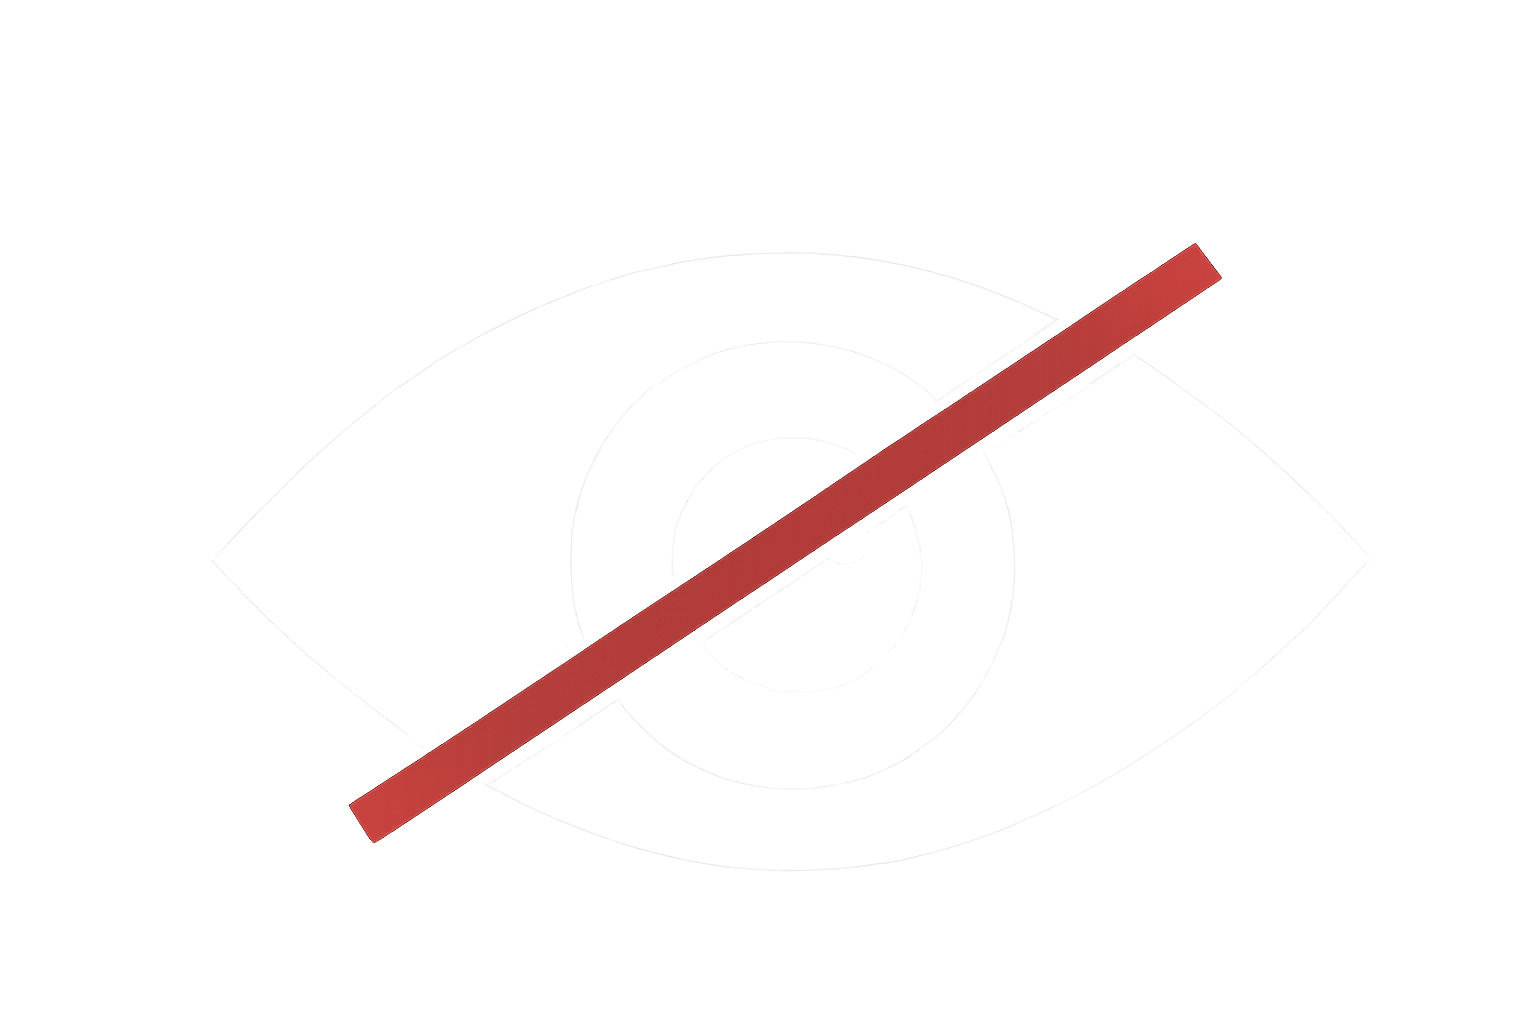
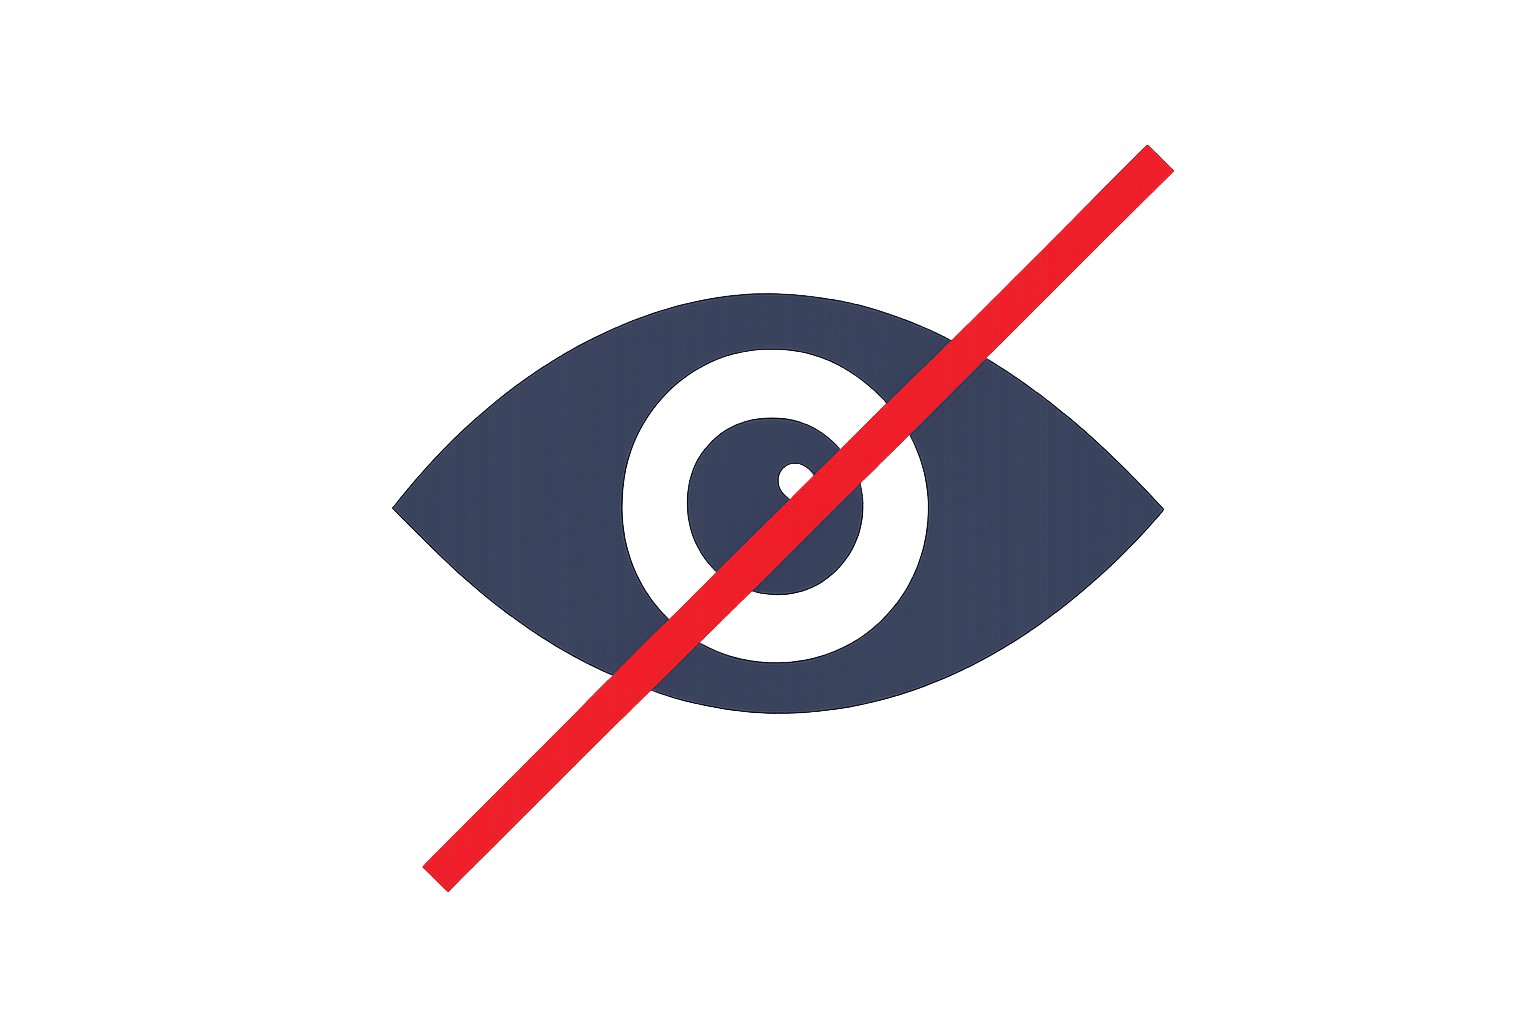
Изменил стиль AuthorizationPage

Changed region(s): [[0.2188, 0.125, 0.8125, 0.875]]

diff --git a/AutoCareDiray/View/Authorization/AuthorizationPage.xaml b/AutoCareDiray/View/Authorization/AuthorizationPage.xaml
@@ -69,8 +69,8 @@
                                      HeightRequest="40" 
                                      WidthRequest="50"
                                      HorizontalOptions="Center" 
-                                     Command="{Binding ShowPasswordCommand}"
-                                     Opacity="1"/>
+                                     Opacity="0.5"
+                                     Command="{Binding ShowPasswordCommand}"/>
                         <Entry Grid.Column="1" 
                                Style="{StaticResource EntryImput}"
                                Placeholder="Пароль"

diff --git a/AutoCareDiray/MauiProgram.cs b/AutoCareDiray/MauiProgram.cs
@@ -50,10 +50,20 @@ namespace AutoCareDiray
             string baseAddress = "http://localhost:5286/";
             TimeSpan time = TimeSpan.FromSeconds(30);
 
-            builder.Services.AddSingleton(new HttpClient
+            builder.Services.AddSingleton<HttpClient>(sp =>
             {
-                BaseAddress = new Uri(baseAddress),
-                Timeout = time
+                var handler = new HttpClientHandler
+                {
+                    UseProxy = false
+                };
+
+                var client = new HttpClient(handler)
+                {
+                    BaseAddress = new Uri(baseAddress),
+                    Timeout = new TimeSpan(time.Ticks)
+                };
+
+                return client;
             });
 
             builder.Services.AddScoped<IApiService, ApiService>();

diff --git a/AutoCareDiray/Service/API/ApiService.cs b/AutoCareDiray/Service/API/ApiService.cs
@@ -29,7 +29,8 @@ namespace AutoCareDiray.Service
                 token.ThrowIfCancellationRequested();
                 var userAuth = new UserAuthorization(login, password);
                 var response = await _httpClient.PostAsJsonAsync("api/User/login",userAuth,token);
-               
+                response.EnsureSuccessStatusCode();
+
                 token.ThrowIfCancellationRequested();
                 if (response.IsSuccessStatusCode)
                 {
